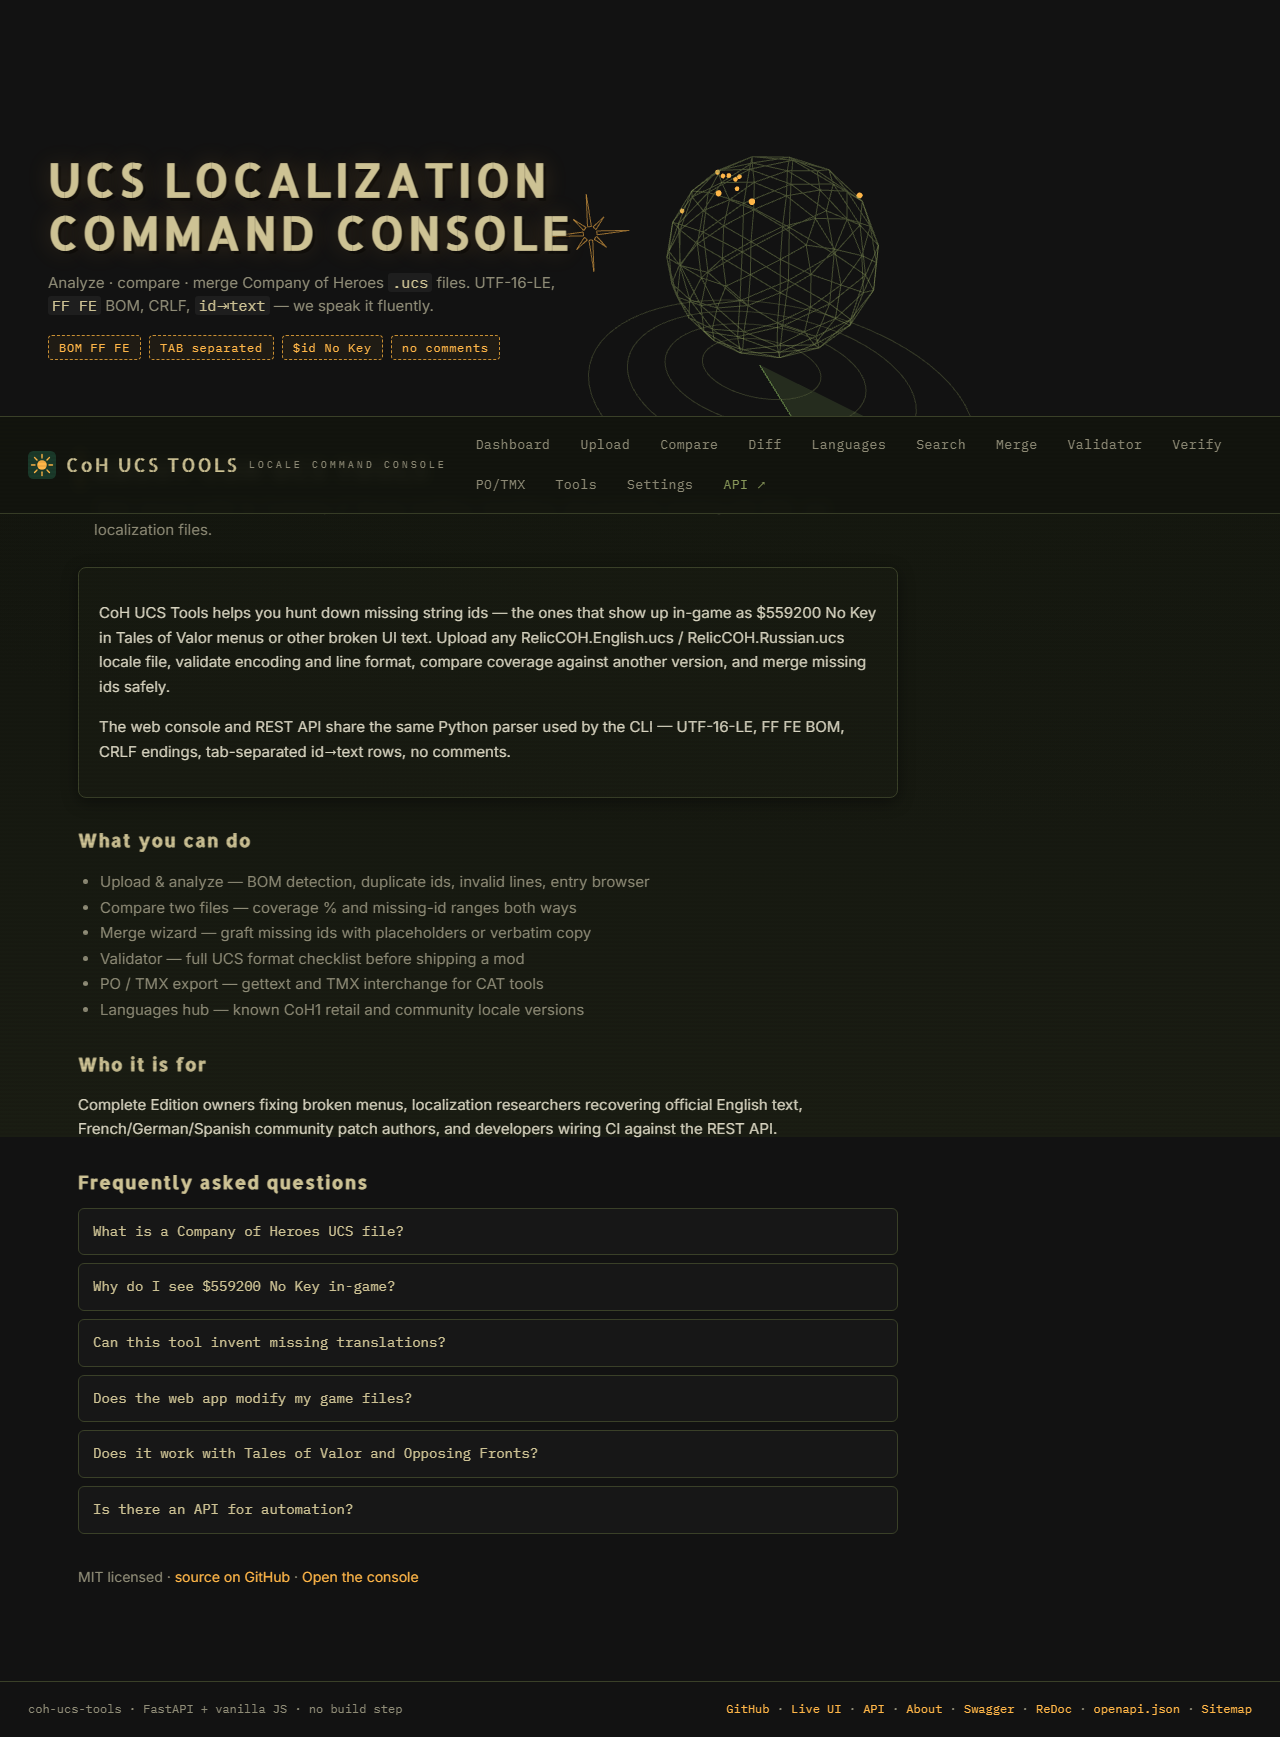
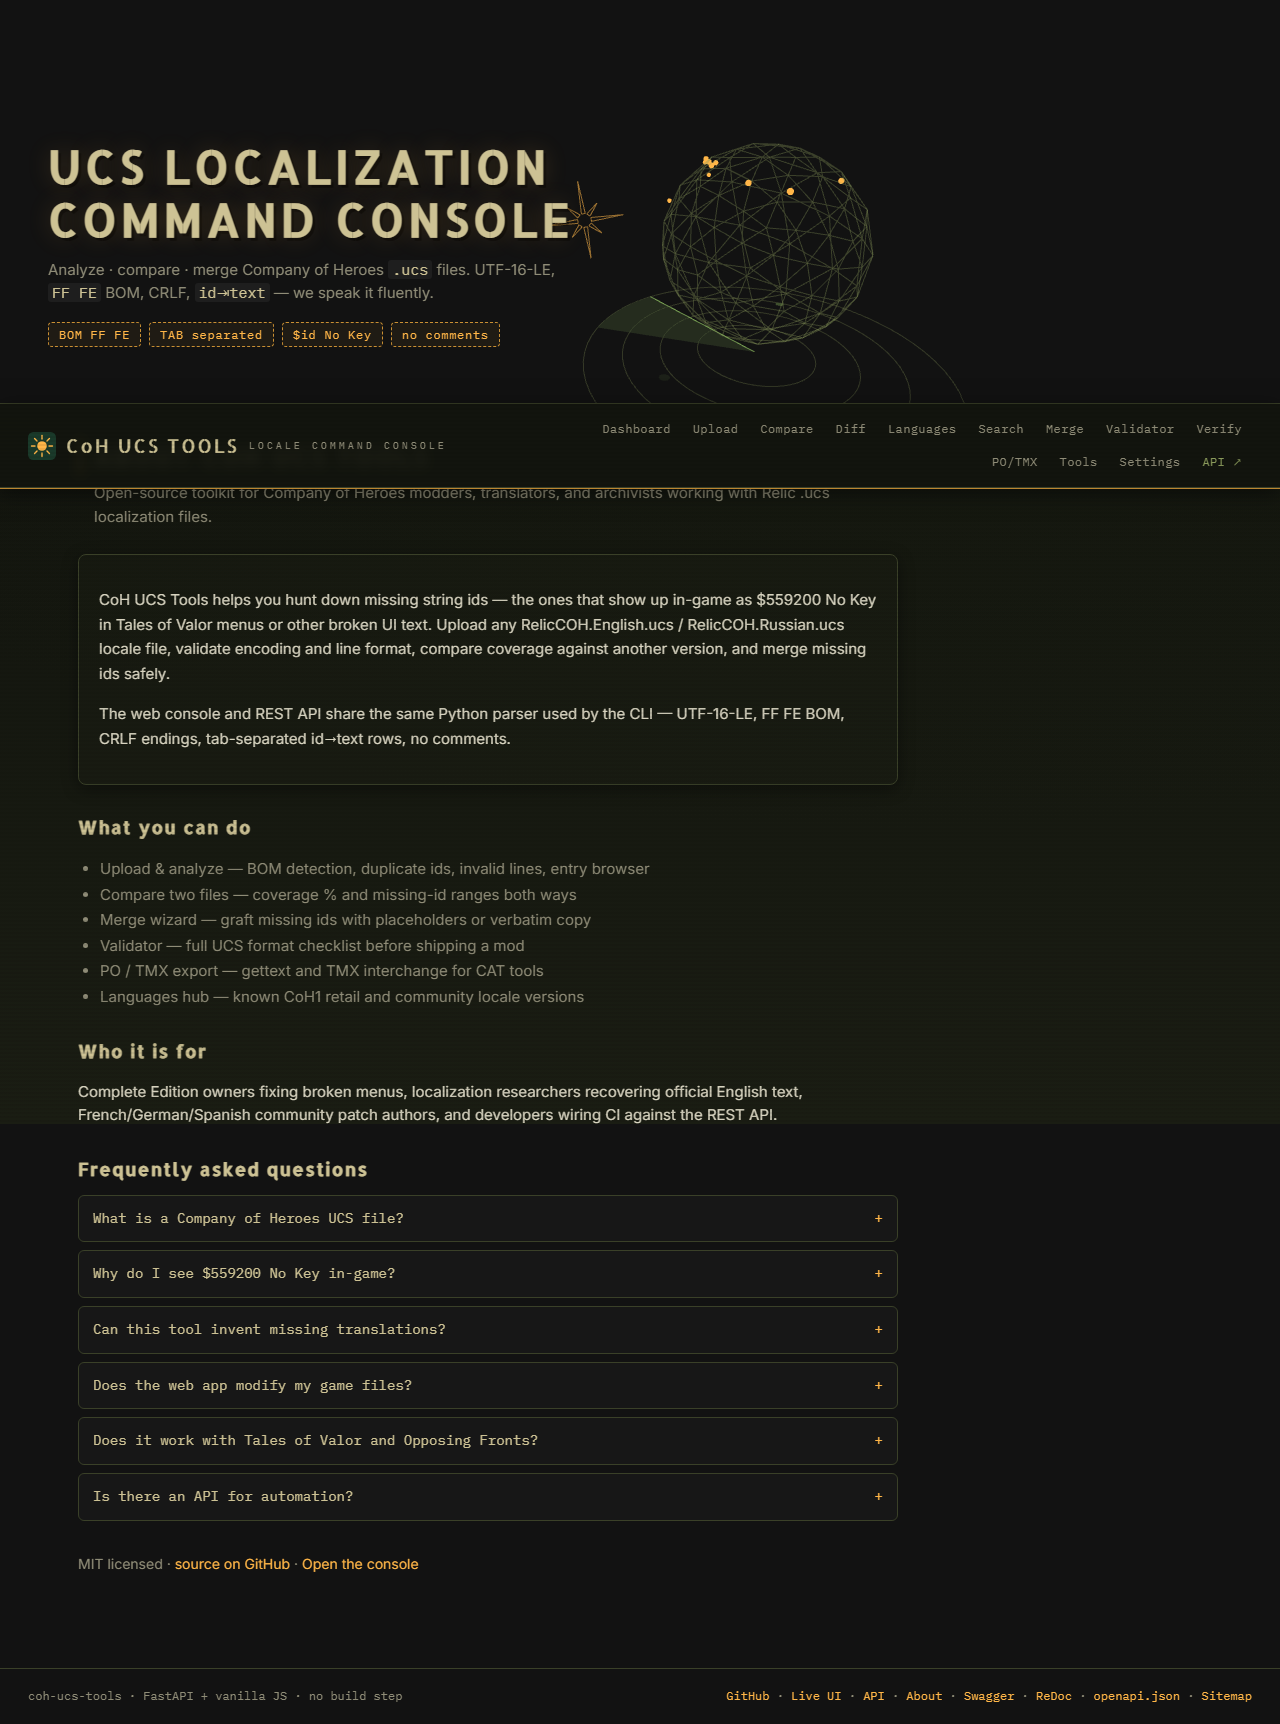
feat(webapp): two-row nav and hide hero on tool routes
Split topbar links into primary and secondary rows with a 1100px mobile menu breakpoint. Set data-shell=tool on non-landing routes to hide the hero and tighten main padding. Document the GitHub Wiki screenshot workflow and refresh the E2E dashboard artifact.

diff --git a/webapp/static/css/app.css b/webapp/static/css/app.css
@@ -71,15 +71,19 @@ code { font-family: var(--mono); color: var(--khaki); background: #ffffff0d; pad
 .brand-mark { font-size: 22px; color: var(--amber); }
 .brand-name { font-family: var(--stencil); font-size: 19px; letter-spacing: 2px; color: var(--khaki); }
 .brand-sub { font-family: var(--mono); font-size: 10px; letter-spacing: 3px; color: var(--text-dim); }
-.nav { display: flex; gap: 4px; flex-wrap: wrap; }
+.nav {
+  display: flex; flex-direction: column; align-items: flex-end; gap: 2px;
+  max-width: min(820px, 62vw);
+}
+.nav-row { display: flex; flex-wrap: nowrap; gap: 2px; justify-content: flex-end; }
 .nav a {
-  font-family: var(--mono); font-size: 13px; letter-spacing: 0.5px;
-  color: var(--text-dim); padding: 7px 12px; border-radius: 4px;
-  border: 1px solid transparent; position: relative;
+  font-family: var(--mono); font-size: 12px; letter-spacing: 0.4px;
+  color: var(--text-dim); padding: 5px 9px; border-radius: 4px;
+  border: 1px solid transparent; position: relative; white-space: nowrap;
   transition: color var(--motion-fast), background var(--motion-fast);
 }
 .nav a::after {
-  content: ""; position: absolute; left: 12px; right: 12px; bottom: 4px;
+  content: ""; position: absolute; left: 9px; right: 9px; bottom: 3px;
   height: 2px; background: var(--amber); border-radius: 1px;
   transform: scaleX(0); transform-origin: left;
   transition: transform var(--motion-base) var(--ease-out);
@@ -97,7 +101,11 @@ code { font-family: var(--mono); color: var(--khaki); background: #ffffff0d; pad
   padding: 7px 12px; cursor: pointer;
 }
 .nav-toggle:hover { background: #ffffff08; }
-.topbar-actions { display: flex; align-items: center; gap: 8px; }
+.topbar-actions { display: flex; align-items: center; gap: 8px; flex-shrink: 0; }
+
+/* Tool routes: hide hero so nav + main content are the focus */
+html[data-shell="tool"] .hero { display: none; }
+html[data-shell="tool"] .view { padding-top: 28px; }
 
 .noscript-fallback {
   padding: 28px 32px;
@@ -420,6 +428,17 @@ td .sev-warning { color: var(--amber); }
   font-family: var(--mono); font-size: 12px; color: var(--text-dim);
 }
 
+@media (max-width: 1100px) {
+  .nav-toggle { display: inline-block; }
+  .nav {
+    display: none; width: 100%; max-width: 100%;
+    align-items: stretch;
+  }
+  .nav.open { display: flex; }
+  .nav-row { flex-direction: column; flex-wrap: nowrap; }
+  .topbar-actions { width: 100%; justify-content: space-between; }
+}
+
 @media (max-width: 900px) {
   .radar-css { display: none; }
   .hero-fallback { display: none; }
@@ -427,10 +446,10 @@ td .sev-warning { color: var(--amber); }
 
 @media (max-width: 720px) {
   .topbar { flex-direction: column; align-items: stretch; }
-  .topbar-actions { width: 100%; justify-content: space-between; }
   .nav-toggle { display: inline-block; }
-  .nav { display: none; width: 100%; flex-direction: column; max-width: 100%; }
+  .nav { display: none; width: 100%; flex-direction: column; max-width: 100%; align-items: stretch; }
   .nav.open { display: flex; }
+  .nav-row { flex-direction: column; }
   .hero { min-height: 220px; }
   .hero-copy { padding: 30px 22px; max-width: 100%; }
   .view { padding: 24px 16px 60px; }

diff --git a/webapp/static/index.html b/webapp/static/index.html
@@ -16,6 +16,14 @@
 <link rel="apple-touch-icon" href="/static/icons/apple-touch-icon.png">
 </head>
 <body>
+<script>
+(function () {
+  var parts = location.pathname.replace(/\/$/, "").split("/").filter(Boolean);
+  var seg = parts.length ? parts[parts.length - 1] : "dashboard";
+  var landing = seg === "dashboard" || seg === "about" || seg === "coh-ucs-tools";
+  document.documentElement.dataset.shell = landing ? "landing" : "tool";
+})();
+</script>
 <a class="skip-link" href="#view" data-i18n="skip.main">Skip to main content</a>
 <div class="scanlines hero-scanline-pulse" aria-hidden="true"></div>
 
@@ -28,6 +36,7 @@
   <div class="topbar-actions">
     <button type="button" class="nav-toggle" id="nav-toggle" aria-expanded="false" aria-controls="nav" data-i18n="nav.menu">Menu</button>
     <nav class="nav" id="nav" aria-label="Main navigation">
+    <div class="nav-row nav-row-primary">
     <a href="/" data-route="dashboard" data-i18n="nav.dashboard">Dashboard</a>
     <a href="/upload" data-route="upload" data-i18n="nav.upload">Upload</a>
     <a href="/compare" data-route="compare" data-i18n="nav.compare">Compare</a>
@@ -37,10 +46,13 @@
     <a href="/merge-wizard" data-route="merge-wizard" data-i18n="nav.merge">Merge</a>
     <a href="/validator" data-route="validator" data-i18n="nav.validator">Validator</a>
     <a href="/verify" data-route="verify" data-i18n="nav.verify">Verify</a>
+    </div>
+    <div class="nav-row nav-row-secondary">
     <a href="/translation" data-route="translation" data-i18n="nav.translation">PO/TMX</a>
     <a href="/tools" data-route="tools" data-i18n="nav.tools">Tools</a>
     <a href="/settings" data-route="settings" data-i18n="nav.settings">Settings</a>
     <a href="/docs" target="_blank" rel="noopener noreferrer" class="nav-api" data-i18n="nav.api">API &#8599;</a>
+    </div>
     </nav>
   </div>
 </header>

diff --git a/webapp/static/js/app.js b/webapp/static/js/app.js
@@ -354,6 +354,11 @@ async function renderTools() {
 }
 
 /* --------------------------------------------------------------- router */
+function applyRouteShell(routeKey) {
+  const landing = routeKey === "dashboard" || routeKey === "about";
+  document.documentElement.dataset.shell = landing ? "landing" : "tool";
+}
+
 const routes = {
   dashboard: renderDashboard,
   about: renderAbout,
@@ -393,6 +398,7 @@ async function route() {
   const routeKey = routes[name] ? name : "dashboard";
   setViewAnimate(routeKey !== prevRouteKey);
   prevRouteKey = routeKey;
+  applyRouteShell(routeKey);
   applyRouteSeo(routeKey);
   applyShellI18n();
   document.querySelectorAll("#nav a[data-route]").forEach(a =>

diff --git a/scripts/wiki_screenshots.py b/scripts/wiki_screenshots.py
@@ -1,0 +1,128 @@
+#!/usr/bin/env python3
+"""Capture SPA screenshots for the GitHub wiki."""
+
+from __future__ import annotations
+
+import argparse
+import os
+import socket
+import subprocess
+import sys
+import time
+from pathlib import Path
+
+ROOT = Path(__file__).resolve().parent.parent
+
+# heading = #view h2.section-title text; content = selector that appears after async load
+PAGES: list[tuple[str, str, str, str]] = [
+    ("dashboard", "/", "DASHBOARD", "#view .grid.cols-2 .card, #view .data, #view .empty"),
+    ("upload", "/upload", "UPLOAD & ANALYZE", "#game-profile, #upload-form, #view form"),
+    ("compare", "/compare", "COMPARE", "#view form, #view select, #view .btn"),
+    ("diff", "/diff", "DIFF", "#view form, #view select"),
+    ("merge-wizard", "/merge-wizard", "MERGE WIZARD", "#view .tab-bar, #view form, #view a"),
+    ("validator", "/validator", "VALIDATOR", "#view form, #view select"),
+    ("verify", "/verify", "VERIFY CHECKLIST", "#view form, #view select"),
+    ("languages", "/languages", "LANGUAGES", "#view .card, #view .grid, #view .empty"),
+    ("search", "/search", "SEARCH", "#view form, #view input"),
+    ("settings", "/settings", "SETTINGS", "#prefs-form"),
+    ("depots", "/depots", "DEPOTS & SOURCES", "#view .card, #view .grid"),
+    ("tools", "/tools", "TOOLS & INTEL", "#view .tool-card, #view .grid"),
+    ("about", "/about", "ABOUT COH UCS TOOLS", "#view details, #view .faq"),
+]
+
+
+def _free_port() -> int:
+    with socket.socket(socket.AF_INET, socket.SOCK_STREAM) as s:
+        s.bind(("127.0.0.1", 0))
+        return int(s.getsockname()[1])
+
+
+def _wait_for_route(page, heading: str, content_selector: str, *, timeout_ms: int = 45000) -> None:
+    """Wait until the SPA route has finished async render."""
+    page.locator("#view").get_by_role("heading", name=heading, exact=True).wait_for(
+        state="visible", timeout=timeout_ms
+    )
+    page.locator(content_selector).first.wait_for(state="visible", timeout=timeout_ms)
+    page.wait_for_timeout(600)
+
+
+def _capture(page, out: Path, name: str, path: str, heading: str, content_selector: str) -> None:
+    page.goto(path, wait_until="domcontentloaded")
+    page.wait_for_load_state("networkidle")
+    _wait_for_route(page, heading, content_selector)
+    page.screenshot(path=str(out / f"{name}.png"), full_page=True)
+    print(f"captured {name}.png")
+
+
+def main() -> int:
+    try:
+        from playwright.sync_api import sync_playwright
+    except ImportError:
+        print("playwright not installed", file=sys.stderr)
+        return 1
+
+    ap = argparse.ArgumentParser(description="Capture wiki screenshots for CoH UCS Tools SPA")
+    ap.add_argument("out_dir", nargs="?", default=str(ROOT / "wiki-screenshots"))
+    ap.add_argument(
+        "--live",
+        action="store_true",
+        help="Capture from GitHub Pages (hybrid UI + Fly API) instead of local uvicorn",
+    )
+    ap.add_argument(
+        "--base",
+        default="https://benmed00.github.io/coh-ucs-tools",
+        help="Base URL when --live (default: GitHub Pages)",
+    )
+    args = ap.parse_args()
+    out = Path(args.out_dir)
+    out.mkdir(parents=True, exist_ok=True)
+
+    proc = None
+    env = os.environ.copy()
+    env["UCS_WEBAPP_UPLOADS"] = str(ROOT / ".e2e-uploads")
+
+    if args.live:
+        base = args.base.rstrip("/")
+    else:
+        port = _free_port()
+        proc = subprocess.Popen(
+            [sys.executable, "-m", "uvicorn", "webapp.main:app", "--host", "127.0.0.1", "--port", str(port)],
+            cwd=str(ROOT),
+            env=env,
+        )
+        base = f"http://127.0.0.1:{port}"
+        deadline = time.time() + 30
+        while time.time() < deadline:
+            try:
+                import urllib.request
+
+                with urllib.request.urlopen(f"{base}/api/health", timeout=2) as resp:
+                    if resp.status == 200:
+                        break
+            except OSError:
+                time.sleep(0.5)
+        else:
+            proc.terminate()
+            raise RuntimeError(f"server did not start on {base}")
+
+    try:
+        with sync_playwright() as p:
+            browser = p.chromium.launch()
+            page = browser.new_page(viewport={"width": 1440, "height": 900})
+            for name, route, heading, content in PAGES:
+                url = f"{base}{route}" if route != "/" else f"{base}/"
+                _capture(page, out, name, url, heading, content)
+            browser.close()
+        print(f"screenshots saved to {out}")
+        return 0
+    finally:
+        if proc:
+            proc.terminate()
+            try:
+                proc.wait(timeout=5)
+            except subprocess.TimeoutExpired:
+                proc.kill()
+
+
+if __name__ == "__main__":
+    raise SystemExit(main())

diff --git a/CONTRIBUTING.md b/CONTRIBUTING.md
@@ -92,3 +92,13 @@ already excludes these paths — do not work around it.
   `chore:` with a concise imperative subject.
 * One logical change per PR; include the *why* in the description.
 * PRs must keep the test suite green.
+
+## GitHub Wiki
+
+User-facing UI guides and screenshots live in the
+[project wiki](https://github.com/benmed00/coh-ucs-tools/wiki). When you add
+SPA routes or change workflows, update the matching wiki page and run
+`python scripts/wiki_screenshots.py` to refresh screenshots (see wiki
+[Documentation Map](https://github.com/benmed00/coh-ucs-tools/wiki/Documentation-Map)).
+Repo `docs/*.md` files remain the canonical reference for API signatures,
+deployment secrets, and the full project report.

diff --git a/README.md b/README.md
@@ -479,6 +479,7 @@ webapp tests cover diff, verify, TMX, bookmarks, and more.
 
 | Document | Contents |
 |---|---|
+| **[GitHub Wiki](https://github.com/benmed00/coh-ucs-tools/wiki)** | UI walkthroughs with screenshots, step-by-step guides, and cross-links to the docs below |
 | [`docs/PROJECT_REPORT.md`](docs/PROJECT_REPORT.md) | Full project report: format reverse engineering, comparison findings, NSV recovery, MT cross-check, verification |
 | [`docs/API.md`](docs/API.md) | Python API (signatures + examples) and REST API endpoint reference |
 | [`docs/BACKLOG.md`](docs/BACKLOG.md) | Prioritized roadmap (P1/P2/P3) |